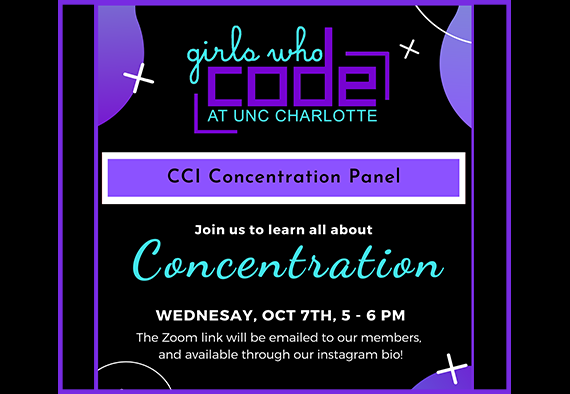
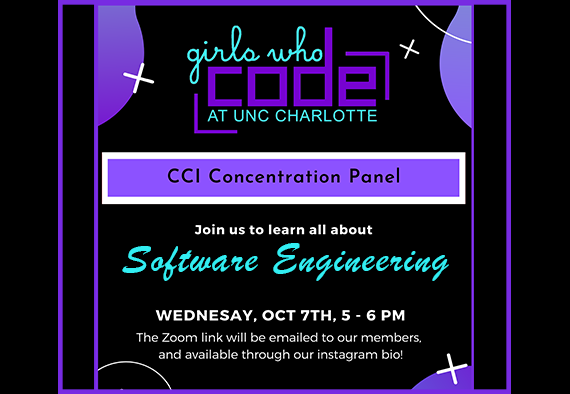
added descriptions for flyers

Changed region(s): [[0.2088, 0.6091, 0.8053, 0.731]]

diff --git a/index.html b/index.html
@@ -336,15 +336,16 @@ https://templatemo.com/tm-531-reflux
             <div class="isotope-item" data-type="Web Team">
               <figure class="snip1321">
                 <!-- 💛 CHANGE ME src="assets/images/[image of your work #5]" 💛 -->
-                <img src="assets/images/web-meeting-spring.png" alt="sq-sample26" />
+                <img src="assets/images/web-meeting-spring.png" alt="spring web meeting" />
                 <figcaption>
                   <!-- 💛 CHANGE ME href="assets/images/[image of your work #5]" 💛 -->
                   <a href="assets/images/web-meeting-spring.png" data-lightbox="image-1" data-title="Caption"><i
                       class="fa fa-search"></i></a>
                   <!-- 💛 CHANGE ME <h4>[Title of work #5]</h4> 💛 -->
-                  <h4>Fifth Awesome</h4>
+                  <h4>Web Dev Meeting</h4>
                   <!-- 💛 CHANGE ME <h4>[Short description/words for work #5]</h4> 💛 -->
-                  <span>Ut sollicitudin risus</span>
+                  <span>We walked through our team setup on GitHub<br /> and looked through different hugo themes to choose <br />
+                  one for our team to use with our new website.</span>
                 </figcaption>
               </figure>
             </div>
@@ -352,15 +353,15 @@ https://templatemo.com/tm-531-reflux
             <div class="isotope-item" data-type="Web Team">
               <figure class="snip1321">
                 <!-- 💛 CHANGE ME src="assets/images/[image of your work #1]" 💛 -->
-                <img src="assets/images/web-dev-kickoff-sum.png" alt="sq-sample26" />
+                <img src="assets/images/web-dev-kickoff-sum.png" alt="Summer Web Dev Kickoff Flyer" />
                 <figcaption>
                   <!-- 💛 CHANGE ME href="assets/images/[image of your work #1]" 💛 -->
                   <a href="assets/images/web-dev-kickoff-sum.png" data-lightbox="image-1" data-title="Caption"><i
                       class="fa fa-search"></i></a>
                   <!-- 💛 CHANGE ME <h4>[Title of work #1]</h4> 💛 -->
-                  <h4>First Title</h4>
+                  <h4>Summer Web Dev Kickoff!</h4>
                   <!-- 💛 CHANGE ME <h4>[Short description/words for work #1]</h4> 💛 -->
-                  <span>free to use our template</span>
+                  <span>We met to discuss our plans for the summer and beginning<br /> our documentation phase for building our new website.</span>
                 </figcaption>
               </figure>
             </div>
@@ -369,15 +370,15 @@ https://templatemo.com/tm-531-reflux
             <div class="isotope-item" data-type="Development">
               <figure class="snip1321">
                 <!-- 💛 CHANGE ME src="assets/images/[image of your work #2]" 💛 -->
-                <img src="assets/images/github-wksp.png" alt="sq-sample26" />
+                <img src="assets/images/github-wksp.png" alt="GitHub Workshop Flyer" />
                 <figcaption>
                   <!-- 💛 CHANGE ME href="assets/images/[image of your work #2]" 💛 -->
                   <a href="assets/images/github-wksp.png" data-lightbox="image-1" data-title="Caption"><i
                       class="fa fa-search"></i></a>
                   <!-- 💛 CHANGE ME <h4>[Title of work #2]</h4> 💛 -->
-                  <h4>Second Title</h4>
+                  <h4>GitHub Workshop</h4>
                   <!-- 💛 CHANGE ME <h4>[Short description/words for work #2]</h4> 💛 -->
-                  <span>please tell your friends</span>
+                  <span>We learned the basics of how to work with GitHub, <br />VS Code, and collaborate with a team! </span>
                 </figcaption>
               </figure>
             </div>
@@ -386,15 +387,16 @@ https://templatemo.com/tm-531-reflux
             <div class="isotope-item" data-type="Development">
               <figure class="snip1321">
                 <!-- 💛 CHANGE ME src="assets/images/[image of your work #3]" 💛 -->
-                <img src="assets/images/hugo-wksp.png" alt="sq-sample26" />
+                <img src="assets/images/hugo-wksp.png" alt="Hugo Workshop Flyer" />
                 <figcaption>
                   <!-- 💛 CHANGE ME href="assets/images/[image of your work #3]" 💛 -->
                   <a href="assets/images/hugo-wksp.png" data-lightbox="image-1" data-title="Caption"><i
                       class="fa fa-search"></i></a>
                   <!-- 💛 CHANGE ME <h4>[Title of work #3]</h4> 💛 -->
-                  <h4>Item Third</h4>
+                  <h4>Hugo Workshop</h4>
                   <!-- 💛 CHANGE ME <h4>[Short description/words for work #3]</h4> 💛 -->
-                  <span>customize anything</span>
+                  <span>We learned how to modify a Hugo theme and push it to our repos. <br />
+                    We had fun playing with the text, colors, buttons, you name it!</span>
                 </figcaption>
               </figure>
             </div>
@@ -403,15 +405,16 @@ https://templatemo.com/tm-531-reflux
             <div class="isotope-item" data-type="Web Team">
               <figure class="snip1321">
                 <!-- 💛 CHANGE ME src="assets/images/[image of your work #5]" 💛 -->
-                <img src="assets/images/web-meet-doc.png" alt="sq-sample26" />
+                <img src="assets/images/web-meet-doc.png" alt="Let's Doc: Web Meeting Flyer" />
                 <figcaption>
                   <!-- 💛 CHANGE ME href="assets/images/[image of your work #5]" 💛 -->
                   <a href="assets/images/web-meet-doc.png" data-lightbox="image-1" data-title="Caption"><i
                       class="fa fa-search"></i></a>
                   <!-- 💛 CHANGE ME <h4>[Title of work #5]</h4> 💛 -->
-                  <h4>Fifth Awesome</h4>
+                  <h4>Web Dev Meeting: Let's Doc!</h4>
                   <!-- 💛 CHANGE ME <h4>[Short description/words for work #5]</h4> 💛 -->
-                  <span>Ut sollicitudin risus</span>
+                  <span>This was the beginning of our team working on our template documentation.
+                  We setup our Trello board and started dividing the work based on how much time each person wanted to put in.</span>
                 </figcaption>
               </figure>
             </div>
@@ -419,15 +422,15 @@ https://templatemo.com/tm-531-reflux
             <div class="isotope-item" data-type="Social">
               <figure class="snip1321">
                 <!-- 💛 CHANGE ME src="assets/images/[image of your work #5]" 💛 -->
-                <img src="assets/images/study-session.png" alt="sq-sample26" />
+                <img src="assets/images/study-session.png" alt="Study Session Flyer" />
                 <figcaption>
                   <!-- 💛 CHANGE ME href="assets/images/[image of your work #5]" 💛 -->
                   <a href="assets/images/study-session.png" data-lightbox="image-1" data-title="Caption"><i
                       class="fa fa-search"></i></a>
                   <!-- 💛 CHANGE ME <h4>[Title of work #5]</h4> 💛 -->
-                  <h4>Fifth Awesome</h4>
+                  <h4>Study with GWC</h4>
                   <!-- 💛 CHANGE ME <h4>[Short description/words for work #5]</h4> 💛 -->
-                  <span>Ut sollicitudin risus</span>
+                  <span>We hosted a study session where, after hitting the books <br />for a bit, we could play Pictionary together.</span>
                 </figcaption>
               </figure>
             </div>
@@ -435,15 +438,15 @@ https://templatemo.com/tm-531-reflux
             <div class="isotope-item" data-type="Social">
               <figure class="snip1321">
                 <!-- 💛 CHANGE ME src="assets/images/[image of your work #5]" 💛 -->
-                <img src="assets/images/game-night-1.png" alt="sq-sample26" />
+                <img src="assets/images/game-night-1.png" alt="Game Night Flyer" />
                 <figcaption>
                   <!-- 💛 CHANGE ME href="assets/images/[image of your work #5]" 💛 -->
                   <a href="assets/images/game-night-1.png" data-lightbox="image-1" data-title="Caption"><i
                       class="fa fa-search"></i></a>
                   <!-- 💛 CHANGE ME <h4>[Title of work #5]</h4> 💛 -->
-                  <h4>Fifth Awesome</h4>
+                  <h4>Game Night with GWC</h4>
                   <!-- 💛 CHANGE ME <h4>[Short description/words for work #5]</h4> 💛 -->
-                  <span>Ut sollicitudin risus</span>
+                  <span>As part of our weekly Game Nights this summer, this was <br />a night for us to virtually play Pictionary together.</span>
                 </figcaption>
               </figure>
             </div>
@@ -451,15 +454,15 @@ https://templatemo.com/tm-531-reflux
             <div class="isotope-item" data-type="Social">
               <figure class="snip1321">
                 <!-- 💛 CHANGE ME src="assets/images/[image of your work #5]" 💛 -->
-                <img src="assets/images/game-night-3.png" alt="sq-sample26" />
+                <img src="assets/images/game-night-3.png" alt="Game Night Flyer" />
                 <figcaption>
                   <!-- 💛 CHANGE ME href="assets/images/[image of your work #5]" 💛 -->
                   <a href="assets/images/game-night-3.png" data-lightbox="image-1" data-title="Caption"><i
                       class="fa fa-search"></i></a>
                   <!-- 💛 CHANGE ME <h4>[Title of work #5]</h4> 💛 -->
-                  <h4>Fifth Awesome</h4>
+                  <h4>Game Night with GWC</h4>
                   <!-- 💛 CHANGE ME <h4>[Short description/words for work #5]</h4> 💛 -->
-                  <span>Ut sollicitudin risus</span>
+                  <span>As part of our weekly Game Nights this summer, this was <br />a night for us to virtually play Kahoot together.</span>
                 </figcaption>
               </figure>
             </div>
@@ -467,15 +470,15 @@ https://templatemo.com/tm-531-reflux
             <div class="isotope-item" data-type="Social">
               <figure class="snip1321">
                 <!-- 💛 CHANGE ME src="assets/images/[image of your work #5]" 💛 -->
-                <img src="assets/images/game-night-4.png" alt="sq-sample26" />
+                <img src="assets/images/game-night-4.png" alt="Game Night Flyer" />
                 <figcaption>
                   <!-- 💛 CHANGE ME href="assets/images/[image of your work #5]" 💛 -->
                   <a href="assets/images/game-night-4.png" data-lightbox="image-1" data-title="Caption"><i
                       class="fa fa-search"></i></a>
                   <!-- 💛 CHANGE ME <h4>[Title of work #5]</h4> 💛 -->
-                  <h4>Fifth Awesome</h4>
+                  <h4>Game Night with GWC</h4>
                   <!-- 💛 CHANGE ME <h4>[Short description/words for work #5]</h4> 💛 -->
-                  <span>Ut sollicitudin risus</span>
+                  <span>As part of our weekly Game Nights this summer, this was <br />a night for us to virtually play Kahoot together.</span>
                 </figcaption>
               </figure>
             </div>
@@ -483,15 +486,15 @@ https://templatemo.com/tm-531-reflux
             <div class="isotope-item" data-type="Social">
               <figure class="snip1321">
                 <!-- 💛 CHANGE ME src="assets/images/[image of your work #5]" 💛 -->
-                <img src="assets/images/game-night-5.png" alt="sq-sample26" />
+                <img src="assets/images/game-night-5.png" alt="Game Night Flyer" />
                 <figcaption>
                   <!-- 💛 CHANGE ME href="assets/images/[image of your work #5]" 💛 -->
                   <a href="assets/images/game-night-5.png" data-lightbox="image-1" data-title="Caption"><i
                       class="fa fa-search"></i></a>
                   <!-- 💛 CHANGE ME <h4>[Title of work #5]</h4> 💛 -->
-                  <h4>Fifth Awesome</h4>
+                  <h4>Game Night with GWC</h4>
                   <!-- 💛 CHANGE ME <h4>[Short description/words for work #5]</h4> 💛 -->
-                  <span>Ut sollicitudin risus</span>
+                  <span>As part of our weekly Game Nights this summer, this was <br />a night for us to virtually play Among Us together.</span>
                 </figcaption>
               </figure>
             </div>
@@ -499,15 +502,15 @@ https://templatemo.com/tm-531-reflux
             <div class="isotope-item" data-type="Social">
               <figure class="snip1321">
                 <!-- 💛 CHANGE ME src="assets/images/[image of your work #5]" 💛 -->
-                <img src="assets/images/game-night-7.png" alt="sq-sample26" />
+                <img src="assets/images/game-night-7.png" alt="Game Night Flyer" />
                 <figcaption>
                   <!-- 💛 CHANGE ME href="assets/images/[image of your work #5]" 💛 -->
                   <a href="assets/images/game-night-7.png" data-lightbox="image-1" data-title="Caption"><i
                       class="fa fa-search"></i></a>
                   <!-- 💛 CHANGE ME <h4>[Title of work #5]</h4> 💛 -->
-                  <h4>Fifth Awesome</h4>
+                  <h4>Game Night with GWC</h4>
                   <!-- 💛 CHANGE ME <h4>[Short description/words for work #5]</h4> 💛 -->
-                  <span>Ut sollicitudin risus</span>
+                  <span>As part of our weekly Game Nights this summer, this was <br />a night for us to virtually play Among Us together.</span>
                 </figcaption>
               </figure>
             </div>
@@ -515,15 +518,16 @@ https://templatemo.com/tm-531-reflux
             <div class="isotope-item" data-type="General">
               <figure class="snip1321">
                 <!-- 💛 CHANGE ME src="assets/images/[image of your work #5]" 💛 -->
-                <img src="assets/images/code-lounge.png" alt="sq-sample26" />
+                <img src="assets/images/code-lounge.png" alt="Code Lounge Flyer" />
                 <figcaption>
                   <!-- 💛 CHANGE ME href="assets/images/[image of your work #5]" 💛 -->
                   <a href="assets/images/code-lounge.png" data-lightbox="image-1" data-title="Caption"><i
                       class="fa fa-search"></i></a>
                   <!-- 💛 CHANGE ME <h4>[Title of work #5]</h4> 💛 -->
-                  <h4>Fifth Awesome</h4>
+                  <h4>Code Lounge</h4>
                   <!-- 💛 CHANGE ME <h4>[Short description/words for work #5]</h4> 💛 -->
-                  <span>Ut sollicitudin risus</span>
+                  <span>We started virtual Code Lounge where you can come drink coffee, <br />chat, work out the bugs, logic, life troubles... really anything.
+                  <br />Lets get over that mid-week hump together!</span>
                 </figcaption>
               </figure>
             </div>
@@ -531,15 +535,15 @@ https://templatemo.com/tm-531-reflux
             <div class="isotope-item" data-type="General">
               <figure class="snip1321">
                 <!-- 💛 CHANGE ME src="assets/images/[image of your work #5]" 💛 -->
-                <img src="assets/images/spring-kickoff.png" alt="sq-sample26" />
+                <img src="assets/images/spring-kickoff.png" alt="Spring Kickoff Flyer" />
                 <figcaption>
                   <!-- 💛 CHANGE ME href="assets/images/[image of your work #5]" 💛 -->
                   <a href="assets/images/spring-kickoff.png" data-lightbox="image-1" data-title="Caption"><i
                       class="fa fa-search"></i></a>
                   <!-- 💛 CHANGE ME <h4>[Title of work #5]</h4> 💛 -->
-                  <h4>Fifth Awesome</h4>
+                  <h4>Spring Kickoff</h4>
                   <!-- 💛 CHANGE ME <h4>[Short description/words for work #5]</h4> 💛 -->
-                  <span>Ut sollicitudin risus</span>
+                  <span>Members joined us to see what we were up to that semester<br /> and what opportunities we had!</span>
                 </figcaption>
               </figure>
             </div>
@@ -547,15 +551,15 @@ https://templatemo.com/tm-531-reflux
             <div class="isotope-item" data-type="General">
               <figure class="snip1321">
                 <!-- 💛 CHANGE ME src="assets/images/[image of your work #5]" 💛 -->
-                <img src="assets/images/elections.png" alt="sq-sample26" />
+                <img src="assets/images/elections.png" alt="E-board Elections Flyer" />
                 <figcaption>
                   <!-- 💛 CHANGE ME href="assets/images/[image of your work #5]" 💛 -->
                   <a href="assets/images/elections.png" data-lightbox="image-1" data-title="Caption"><i
                       class="fa fa-search"></i></a>
                   <!-- 💛 CHANGE ME <h4>[Title of work #5]</h4> 💛 -->
-                  <h4>Fifth Awesome</h4>
+                  <h4>E-Board Elections</h4>
                   <!-- 💛 CHANGE ME <h4>[Short description/words for work #5]</h4> 💛 -->
-                  <span>Ut sollicitudin risus</span>
+                  <span>We had our annual E-board Elections last spring. </span>
                 </figcaption>
               </figure>
             </div>
@@ -563,15 +567,15 @@ https://templatemo.com/tm-531-reflux
             <div class="isotope-item" data-type="General">
               <figure class="snip1321">
                 <!-- 💛 CHANGE ME src="assets/images/[image of your work #5]" 💛 -->
-                <img src="assets/images/summer-schedule.png" alt="sq-sample26" />
+                <img src="assets/images/summer-schedule.png" alt="Summer Schedule Flyer" />
                 <figcaption>
                   <!-- 💛 CHANGE ME href="assets/images/[image of your work #5]" 💛 -->
                   <a href="assets/images/summer-schedule.png" data-lightbox="image-1" data-title="Caption"><i
                       class="fa fa-search"></i></a>
                   <!-- 💛 CHANGE ME <h4>[Title of work #5]</h4> 💛 -->
-                  <h4>Fifth Awesome</h4>
+                  <h4>Summer Schedule</h4>
                   <!-- 💛 CHANGE ME <h4>[Short description/words for work #5]</h4> 💛 -->
-                  <span>Ut sollicitudin risus</span>
+                  <span>We had some awesome weekly events over the summer on Wednesdays and Fridays!</span>
                 </figcaption>
               </figure>
             </div>
@@ -579,15 +583,17 @@ https://templatemo.com/tm-531-reflux
             <div class="isotope-item" data-type="Professional">
               <figure class="snip1321">
                 <!-- 💛 CHANGE ME src="assets/images/[image of your work #5]" 💛 -->
-                <img src="assets/images/panel.png" alt="sq-sample26" />
+                <img src="assets/images/panel.png" alt="Professional Panel Flyer" />
                 <figcaption>
                   <!-- 💛 CHANGE ME href="assets/images/[image of your work #5]" 💛 -->
                   <a href="assets/images/panel.png" data-lightbox="image-1" data-title="Caption"><i
                       class="fa fa-search"></i></a>
                   <!-- 💛 CHANGE ME <h4>[Title of work #5]</h4> 💛 -->
-                  <h4>Fifth Awesome</h4>
+                  <h4>CCI Concentration Panel</h4>
                   <!-- 💛 CHANGE ME <h4>[Short description/words for work #5]</h4> 💛 -->
-                  <span>Ut sollicitudin risus</span>
+                  <span>We had a series of panels where we learned about  <br />two different CCI Concentrations at UNC Charlotte: <br />Software Engineering
+                    and Data Science.
+                  </span>
                 </figcaption>
               </figure>
             </div>
@@ -595,15 +601,15 @@ https://templatemo.com/tm-531-reflux
             <div class="isotope-item" data-type="Web Team">
               <figure class="snip1321">
                 <!-- 💛 CHANGE ME src="assets/images/[image of your work #5]" 💛 -->
-                <img src="assets/images/web-meet-sum-sched.png" alt="sq-sample26" />
+                <img src="assets/images/web-meet-sum-sched.png" alt="Join Our Team Flyer" />
                 <figcaption>
                   <!-- 💛 CHANGE ME href="assets/images/[image of your work #5]" 💛 -->
                   <a href="assets/images/web-meet-sum-sched.png" data-lightbox="image-1" data-title="Caption"><i
                       class="fa fa-search"></i></a>
                   <!-- 💛 CHANGE ME <h4>[Title of work #5]</h4> 💛 -->
-                  <h4>Fifth Awesome</h4>
+                  <h4>Join our Team</h4>
                   <!-- 💛 CHANGE ME <h4>[Short description/words for work #5]</h4> 💛 -->
-                  <span>Ut sollicitudin risus</span>
+                  <span>This was a weekly post with updates on our Team Check-Ins <br />and Web Dev Meetings each week this summer.</span>
                 </figcaption>
               </figure>
             </div>
@@ -611,14 +617,17 @@ https://templatemo.com/tm-531-reflux
             <div class="isotope-item" data-type="Professional">
               <figure class="snip1321">
                 <!-- 💛 CHANGE ME src="assets/images/[image of your work #6]" 💛 -->
-                <img src="assets/images/volunteer-girl-scouts.png" alt="sq-sample26" />
+                <img src="assets/images/volunteer-girl-scouts.png" alt="Professional Development Flyer" />
                 <figcaption>
                   <!-- 💛 CHANGE ME href="assets/images/[image of your work #6]" 💛 -->
                   <a href="assets/images/" data-lightbox="image-1" data-title="Caption"><i class="fa fa-search"></i></a>
                   <!-- 💛 CHANGE ME <h4>[Title of work #6]</h4> 💛 -->
-                  <h4>Awesome Sixth</h4>
+                  <h4>Professional Development Workshop</h4>
                   <!-- 💛 CHANGE ME <h4>[Short description/words for work #6]</h4> 💛 -->
-                  <span>Donec eget massa ante</span>
+                  <span>
+                    We hosted a 2-day workshop for their highschool girl scouts, <br />teaching them how to work with a template to create 
+                    an <br />online portfolio, and all about resumes, interviewing, <br />and applying to colleges.
+                  </span>
                 </figcaption>
               </figure>
             </div>
